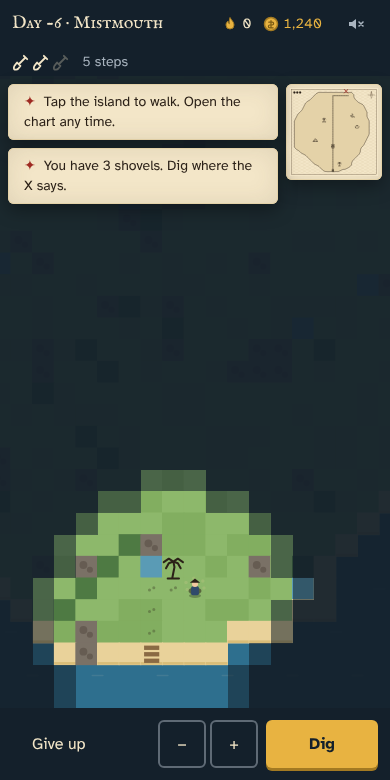
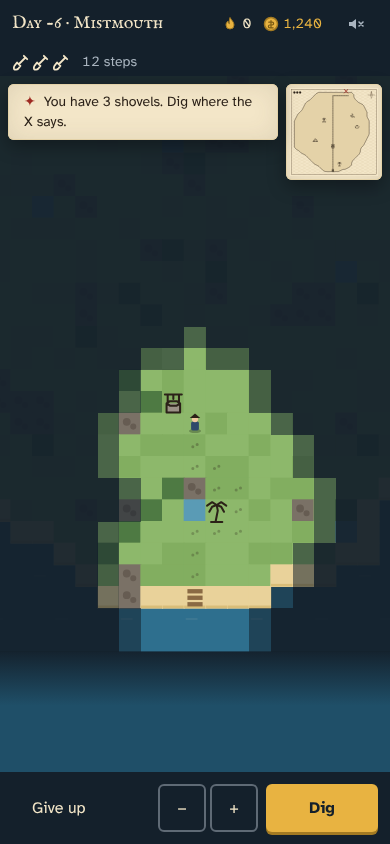
test(qa): judge red-team checks in npm run qa, refreshed screenshots and hand-off docs
npm run qa now also checks the splash pitch at every post size (J1), one hunt hint at a time
(J2) and the wide hunt's chart panel (J4): 17/17. The QA report, screenshots (new splash,
hunt, wide hunt), laptop prompt, runbook and Devpost draft match the judge pass, and the red
team doc lists the PRs that shipped it.

diff --git a/tools/preview/qa.py b/tools/preview/qa.py
@@ -189,6 +189,43 @@ with sync_playwright() as pw:
         check("Q2", "Logged out: hunt captain charts, bury asks to log in", q2)
     finally:
         srv.terminate(); srv.wait()
+    # Judge red team checks (docs/17-JUDGE-REDTEAM.md), on a fresh logged-in day.
+    srv = server()
+    try:
+        def j1():
+            out = []
+            for w, h, strip in [(390, 320, False), (390, 512, True), (740, 320, False)]:
+                pg = page(w, h); pg.goto(BASE + "/splash.html"); pg.wait_for_timeout(900)
+                pitch = pg.get_by_text("Follow a stranger’s map to buried gold")
+                box = pitch.bounding_box() if pitch.count() else None
+                seen = box is not None and box["y"] + box["height"] <= h
+                how = pg.locator("ol").first
+                shown = how.count() > 0 and how.is_visible()
+                out.append(seen and shown == strip and not pg.logs); pg.close()
+            return all(out), "pitch visible at 390×320, 390×512, 740×320; how-it-works strip only when ≥ 440 px tall"
+        check("J1", "Splash says what the game is at every post size", j1)
+
+        def j2():
+            pg = page(); to_pick(pg); btn(pg, "Follow this chart").first.click(); pg.wait_for_timeout(700)
+            before = pg.locator("button:has-text('✦')").count()
+            pg.keyboard.press("ArrowUp"); pg.keyboard.press("ArrowUp"); pg.keyboard.press("Enter"); pg.wait_for_timeout(900)
+            after = pg.locator("button:has-text('✦')").count()
+            t = pg.inner_text("main"); pg.close()
+            return before == 1 and after == 1 and "shovels" in t, f"hints on screen before/after walking: {before}/{after}"
+        check("J2", "Hunt shows one hint at a time", j2)
+
+        def j4():
+            pg = page(1280, 800); to_pick(pg); btn(pg, "Follow this chart").first.click(); pg.wait_for_timeout(700)
+            panel = pg.locator("aside").first
+            wide = panel.count() > 0 and panel.is_visible() and panel.bounding_box()["width"] >= 300
+            # The thumbnail button is labelled exactly "Chart" (hunt.chartOpen).
+            thumbs = pg.get_by_role("button", name="Chart", exact=True)
+            thumb_visible = thumbs.count() > 0 and thumbs.first.is_visible()
+            logs = list(pg.logs); ok = wide and not thumb_visible and not logs; pg.close()
+            return ok, "1280×800: chart panel beside the island, thumbnail hidden" + (f"; console {logs[:2]}" if logs else "") + ("" if wide else "; no panel")
+        check("J4", "Wide screens show the chart beside the island", j4)
+    finally:
+        srv.terminate(); srv.wait()
     browser.close()
 
 manual = [
@@ -203,6 +240,8 @@ manual = [
     ("Q20/Q21", "Daily job twice → one post; day rollover during a hunt"),
     ("Q22", "Console clean in Android/iOS Reddit apps, Firefox, Safari"),
     ("§5", "Judge simulation on 7 and 8 Dec (two people, phone + desktop)"),
+    ("J5", "Result card: Join the crew opens the subreddit (Reddit only: needs the post's subreddit name)"),
+    ("J6", "Every judging day: ≥ 5 tester charts on today's island; Pick shows Trusted and Fresh"),
 ]
 out = sys.argv[1] if len(sys.argv) > 1 else None
 lines = ["| ID | Check | Result | Notes |", "|---|---|---|---|"] + [f"| {a} | {b} | {c} | {d} |" for a, b, c, d in rows]

diff --git a/docs/LAPTOP-PROMPT.md b/docs/LAPTOP-PROMPT.md
@@ -4,12 +4,12 @@ The game is built (server, client, QA tooling all merged on `main`). What's left
 
 > Take my Reddit hackathon game **Isle of Maybe** from "built" to "running on Reddit". Repo: https://github.com/harshbhx/isle-of-maybe. Read `AGENTS.md`, `docs/00-RUNBOOK.md` and `docs/16-QA-REPORT.md` first.
 > 1. Make sure Node 24 (see `.nvmrc`), git, the GitHub CLI, Python 3 and Playwright for Python (`pip install playwright && playwright install chromium`) are installed. Git author must be "Harsh Bhanushali <bhanushaliharsh434@gmail.com>"; no Co-Authored-By lines.
-> 2. Clone into ~/code/isle-of-maybe, `npm install`, then `npm run test:types && npm run lint && npm run test:unit && npm run build`. All must pass. Then `npm run qa` (it starts the local preview itself; set `executable_path` in `tools/preview/qa.py` if Chrome lives elsewhere). Expect 14/14.
+> 2. Clone into ~/code/isle-of-maybe, `npm install`, then `npm run test:types && npm run lint && npm run test:unit && npm run build`. All must pass. Then `npm run qa` (it starts the local preview itself; set `executable_path` in `tools/preview/qa.py` if Chrome lives elsewhere). Expect 17/17.
 > 3. **[Harsh]** `npm run login` and log in to Reddit's developer platform in the browser.
 > 4. **[Harsh]** Create r/IsleOfMaybe_dev (private) and r/IsleOfMaybe (public, keep it under 200 members). Tell the agent when done.
 > 5. `npm run dev` against r/IsleOfMaybe_dev. If the app name `isle-of-maybe` is taken, use `isle-of-maybe-game`: change `devvit.json` and `package.json` through an issue → PR. If `devvit.json` is rejected, fix only the reported keys (the file was validated against the 0.15 schema) through an issue → PR.
-> 6. In the dev sub, open the subreddit mod menu → **Isle of Maybe: Post today's island**. Open the post on my phone and on desktop and send me the link. **Gate 0: the splash shows today's island and Set sail opens the game.**
-> 7. Work through the "Needs a real device or Reddit" list in `docs/16-QA-REPORT.md` with me: feed scrolling over the splash, a full loop on phone, logged out in a private window, Share my chart (confirm sheet → comment under the sticky), Challenge a friend (link opens with that chart first), Review reported charts (report one chart from three accounts), Stats menu, and the Crew goal app setting. Check `npx devvit logs r/IsleOfMaybe_dev` for errors after each.
+> 6. In the dev sub, open the subreddit mod menu → **Isle of Maybe: Post today's island**. Open the post on my phone and on desktop and send me the link. **Gate 0: the splash shows the pitch line, today's date and today's coastline, and Set sail opens the game.**
+> 7. Work through the "Needs a real device or Reddit" list in `docs/16-QA-REPORT.md` with me: feed scrolling over the splash, a full loop on phone, logged out in a private window, Share my chart (confirm sheet → comment under the sticky), Challenge a friend (link opens with that chart first), Review reported charts (report one chart from three accounts), Stats menu, the Crew goal app setting, **Join the crew →** on the result card (opens the subreddit; J5), and the hunt on a desktop window at least 1024 px wide (chart beside the island; J4). Then run the judge-day checklist in `docs/17-JUDGE-REDTEAM.md` §4 once from a brand-new account. Check `npx devvit logs r/IsleOfMaybe_dev` for errors after each.
 > 8. For every problem: open a GitHub issue with steps, screenshot and log lines, label `bug`, then fix it through branch → PR (requirement IDs, how tested) → CI green → squash merge. Never leave a PR open.
 > 9. **[Harsh]** Upload `docs/assets/icon-1024.png`, `featuring-1920x1080.png` and `tile-1080x1080.png` and the listing text from `docs/assets/README.md` in the app's catalog settings. Review the glyph sheet (#28) and the Atlas (`npm run atlas`, #13).
 > 10. Stop and report: what passed, what's broken (issue links), and anything that needs my decision.

diff --git a/docs/16-QA-REPORT.md b/docs/16-QA-REPORT.md
@@ -1,6 +1,6 @@
 # 16 — QA report
 
-Automated run of the QA matrix and break tests (`docs/08-TESTING.md`) against the local preview, 28 Nov 2026, `main` after #123. Re-run before every upload to the demo sub (SHIP-4.1):
+Automated run of the QA matrix and break tests (`docs/08-TESTING.md`) against the local preview, 28 Nov 2026, `main` after #137 (judge pass). Re-run before every upload to the demo sub (SHIP-4.1):
 
 ```bash
 npm run build && npm run qa        # writes nothing; add a path to save the table
@@ -23,6 +23,9 @@ npm run build && npm run qa        # writes nothing; add a path to save the tabl
 | B6 | 50 stamps via the API → rejected | PASS | 50 stamps → HTTP 400 |
 | B12/Q8 | Second bury / double tap → one chest | PASS | bury again after Q1 → HTTP 400, 400 |
 | Q2 | Logged out: hunt captain charts, bury asks to log in | PASS | captain charts only (6); bury asks to log in |
+| J1 | Splash says what the game is at every post size | PASS | pitch visible at 390×320, 390×512, 740×320; how-it-works strip only when ≥ 440 px tall |
+| J2 | Hunt shows one hint at a time | PASS | hints on screen before/after walking: 1/1 |
+| J4 | Wide screens show the chart beside the island | PASS | 1280×800: chart panel beside the island, thumbnail hidden |
 
 **Needs a real device or Reddit (Harsh):**
 
@@ -37,6 +40,8 @@ npm run build && npm run qa        # writes nothing; add a path to save the tabl
 - [ ] **Q20/Q21** Daily job twice → one post; day rollover during a hunt
 - [ ] **Q22** Console clean in Android/iOS Reddit apps, Firefox, Safari
 - [ ] **§5** Judge simulation on 7 and 8 Dec (two people, phone + desktop)
+- [ ] **J5** Result card: Join the crew opens the subreddit (Reddit only: needs the post's subreddit name)
+- [ ] **J6** Every judging day: ≥ 5 tester charts on today's island; Pick shows Trusted and Fresh
 
 ## Break tests 1–12 → where they're enforced
 | # | Attack | Result | Test |
@@ -57,6 +62,6 @@ npm run build && npm run qa        # writes nothing; add a path to save the tabl
 Extra attacks from the red-team pass (bury before finishing a hunt, scraping the Hall, loid-less viewers, rate-limit order) are in `src/server/break.test.ts` and `docs/01-RED-TEAM.md`.
 
 ## Also verified
-- axe-core over all 12 screens: 0 violations (#112).
+- axe-core over all 12 screens: 0 violations (#112); re-run after the judge pass on the new splash (390×512) and the wide hunt (1280×800): 0 violations.
 - Bundle ≈ 101 KB gzip; `tools/check-dist.mjs` fails the build if anything points outside `dist/client`.
 - Every Redis key has a TTL, and nothing but day records, counts, post links and streak bits outlives 30 days (`cleanup.test.ts`).

diff --git a/docs/09-SUBMISSION.md b/docs/09-SUBMISSION.md
@@ -33,6 +33,7 @@ Treasure maps are the oldest user-generated content: one person draws, another t
 - Good maps rise (players rate them True or Cursed) and their makers earn Cartographer tiers. You can share your chart as a comment and challenge friends with a link.
 - Each weekday has a twist (Twins, Low tide, Thick jungle, Sea fog, Lantern night). A daily **crew goal** turns tomorrow into Lantern night when the community finds enough chests, and the top reply under the day's sticky **names tomorrow's island**.
 - A 45-second Practice Cove teaches the hunt on a perfect map; the Hall of Charts keeps the best maps of past days.
+- The post itself says what the game is ("Follow a stranger's map to buried gold. Then bury yours.") over today's coastline. On a wide screen the map sits beside the island, so you read and walk at the same time. The result card ends with one optional invitation to join the crew.
 
 **How we built it**
 Devvit Web: React client, Canvas 2D island, SVG chart editor; Hono server; Redis for everything; the scheduler posts a new island at 00:00 UTC with a sticky comment for chart shares. The island is generated from a daily seed by shared TypeScript that runs on both client and server, so the server re-checks every step and dig: the chest's location never reaches your device until the hunt ends. Charts are structured data, not freehand images, which keeps them safe to show to strangers and lets the game grade them. Even the share image is drawn on the server (a small PNG encoder in plain TypeScript), so nobody can post an arbitrary picture through the app. We red-teamed our own server with break tests (parallel requests, crafted steps, scraping) and fixed five bugs before launch; an automated QA run and an accessibility scan (0 violations, fully keyboard-playable) gate every upload.
@@ -85,7 +86,7 @@ Fonts: IM Fell English SC and Atkinson Hyperlegible (SIL Open Font License). Ins
 ```
 
 ## 4. Demo post set-up (8 Dec)
-1. Make sure today's island post exists and has activity (charts, finds) from testers.
+1. Make sure today's island post exists and has activity (charts, finds) from testers: at least 5 player charts every day from 7 to 16 Dec, so Pick shows Trusted and Fresh charts, not only the Old Captain (`docs/17-JUDGE-REDTEAM.md` J6). Link judges to **today's** post.
 2. Pin a short "How to play" post in the sub (text only) and the community rules: be kind, no spoilers in titles.
 3. Subreddit description: "Daily treasure-map game. Bury it, chart it, trust a stranger's map."
 4. Check member count < 200.

diff --git a/docs/17-JUDGE-REDTEAM.md b/docs/17-JUDGE-REDTEAM.md
@@ -65,8 +65,12 @@ Scores out of 10, before → after this pass.
 
 | PR | Change |
 |---|---|
-| Spec change (this doc) | Requirements DAY-3.4, DAY-3.5, UI-3.3, UI-3.4, UI-4.4, COM-2.8; tasks T80–T83; wireframes W1, W4, W9; copy |
-| T80 | Splash: pitch, date, coastline hero, how-it-works strip |
-| T81 | Hunt: one hint at a time, camera pans past the edge |
-| T82 | Hunt on wide screens: chart beside the island |
-| T83 | Result: Join the crew |
+| #133 | Spec change: this doc; DAY-3.4, DAY-3.5, UI-3.3, UI-3.4, UI-4.4, COM-2.8; tasks T80–T83; wireframes W1, W4, W9; copy |
+| #134 (T80) | Splash: pitch line, today's date, coastline hero (square at every post size), how-it-works strip on tall posts; short posts drop lines instead of clipping |
+| #135 (T81) | Hunt: one hint at a time; camera pans a quarter-screen past the coast; fog fades into open sea |
+| #136 (T82) | Hunt from 1024 px wide: chart full size beside the island, always open |
+| #137 (T83) | Result: "A new island lands every day. Join the crew →" opens the subreddit |
+| #139 | Bug found in the same pass: "1 steps", "1 shovels left", "1 paces". Templates now pick the word by count |
+| this PR | `npm run qa` adds J1, J2, J4 (17/17); axe re-run on the new splash and wide hunt (0 violations); screenshots, QA report, laptop prompt and Devpost draft updated |
+
+Before → after, as a judge first sees it (390 × 512 splash, 390 × 844 hunt, 1280 × 800 hunt): `docs/img/screens/01-splash.png`, `05-hunt.png`, `12-hunt-wide.png`.

diff --git a/docs/00-RUNBOOK.md b/docs/00-RUNBOOK.md
@@ -7,7 +7,7 @@ Harsh's other commitments in this window (plan around them): 404 Hackathon (Sun 
 ---
 
 ## Status (28 Nov 2026): Phases 1–3 are built
-Engine, server and client are merged on `main` with 137 tests, an automated QA run (`npm run qa`, 14/14) and an accessibility scan with 0 violations. Phase 0 is now about getting the built game onto Reddit; `LAPTOP-PROMPT.md` covers it end to end. Gates G1–G2 are passed by tests; G3 and G4 still need phones, testers and the judge simulations.
+Engine, server and client are merged on `main` with 139 tests, an automated QA run (`npm run qa`, 17/17, including the judge red-team checks J1, J2, J4) and an accessibility scan with 0 violations. Phase 0 is now about getting the built game onto Reddit; `LAPTOP-PROMPT.md` covers it end to end. Gates G1–G2 are passed by tests; G3 and G4 still need phones, testers and the judge simulations.
 
 ## Phase 0 — setup (one 45-minute slot, before Tue 1 Dec)
 Already done by Claude: repo `harshbhx/isle-of-maybe` scaffolded from the Devvit React template, specs, docs, CI, issue/PR templates, labels, milestones and all task issues (T04, T05).

diff --git a/docs/img/README.md b/docs/img/README.md
@@ -4,7 +4,7 @@ Phone (390 px) captures from the local preview (`npm run preview:local`, `tools/
 
 | File | Screen |
 |---|---|
-| `screens/01-splash.png` | W1 inline splash |
+| `screens/01-splash.png` | W1 inline splash (390 × 512, after the judge pass: pitch, date, coastline hero, how-it-works strip) |
 | `screens/02-practice.png` | Practice Cove offer |
 | `screens/03-dispatch.png` | W2 Dispatch |
 | `screens/04-pick.png` | W3 pick a chart |
@@ -15,4 +15,5 @@ Phone (390 px) captures from the local preview (`npm run preview:local`, `tools/
 | `screens/09-ink.png` | W8 Ink check |
 | `screens/10-result.png` | W9 result card |
 | `screens/11-share.png` | W10 share confirm |
+| `screens/12-hunt-wide.png` | W4 hunt at 1280 px: the chart beside the island (UI-3.4) |
 | `glyphs.png` | The ten landmark glyphs at 24 px and 64 px, for review (#28) |
